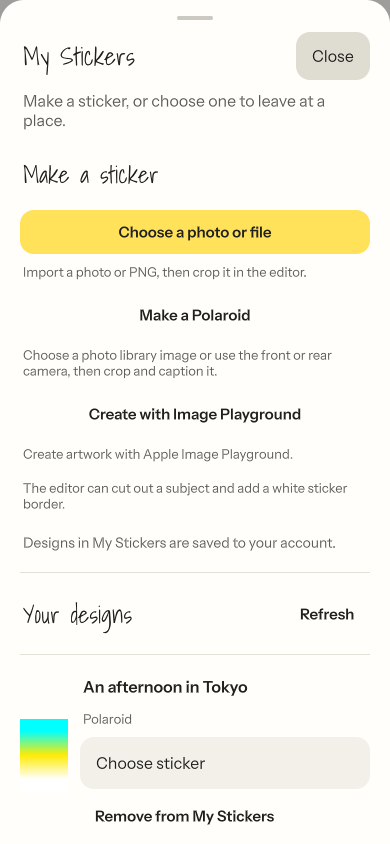
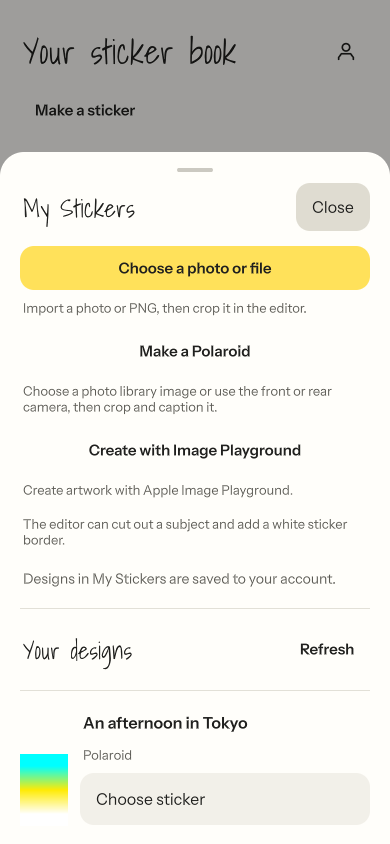
fix: constrain sticker sheet before initial layout

diff --git a/Assets/Tagtag/Application/PlayModeTests/PaperVisualTests.cs b/Assets/Tagtag/Application/PlayModeTests/PaperVisualTests.cs
@@ -671,6 +671,8 @@ namespace Tagtag.Tests
                 " scroll=" + creationSheet.Scroll.worldBound + " screen=" + Screen.width + "x" + Screen.height +
                 " enum=" + typeof(TagtagAppView).GetField("sheet", System.Reflection.BindingFlags.Instance | System.Reflection.BindingFlags.NonPublic).GetValue(host.GetComponent<TagtagAppView>()) +
                 " same=" + ReferenceEquals(creationSheet, typeof(TagtagAppView).GetField("sheetView", System.Reflection.BindingFlags.Instance | System.Reflection.BindingFlags.NonPublic).GetValue(host.GetComponent<TagtagAppView>())));
+            Assert.That(creationSheet.worldBound.yMax, Is.LessThanOrEqualTo(document.rootVisualElement.worldBound.yMax + 1f),
+                "The complete sheet must stay within the viewport so every design is reachable by scrolling.");
             creationSheet.Scroll.scrollOffset = Vector2.zero;
             yield return Capture("my-stickers-sources");
             Assert.That(document.rootVisualElement.Query<Button>().ToList().Any(button => button.text == "Make a Polaroid"), Is.True);

diff --git a/Assets/Tagtag/UI/TagtagAppView.Account.cs b/Assets/Tagtag/UI/TagtagAppView.Account.cs
@@ -345,6 +345,7 @@ namespace Tagtag.UI
             sheetView.style.bottom = SheetBottom();
             ApplySheetHeight();
             overlayHost.Add(sheetView);
+            sheetView.RegisterCallback<GeometryChangedEvent>(_ => ApplySheetHeight());
             VisualElement content = sheetView.Scroll.contentContainer;
             content.style.paddingBottom = 18f;
             reportChoices.Clear();
@@ -711,7 +712,7 @@ namespace Tagtag.UI
         private void ApplySheetHeight()
         {
             if (sheetView == null || root == null) return;
-            if (root.layout.height <= 0f || Screen.height <= 0)
+            if (float.IsNaN(root.layout.height) || float.IsInfinity(root.layout.height) || root.layout.height <= 0f || Screen.height <= 0)
             {
                 sheetView.style.maxHeight = Length.Percent(82f);
                 if (sheet == Sheet.Picker)

diff --git a/docs/plans/2026-09-26-sticker-creation.md b/docs/plans/2026-09-26-sticker-creation.md
@@ -23,7 +23,7 @@ Behavior tests for ownership, immutable retries, image validation/quotas/cleanup
 ## Progress
 
 - Native editor: 86de8c9, 5552aa5, 9d208b1. Objective-C++ syntax/static analyzer and Swift iOS 15 typecheck passed.
-- UI: ca6ffdb, 1d72e50. Captured and corrected long-sheet overflow and selection label layout.
+- UI: ca6ffdb, 1d72e50 plus startup geometry fix. Captured and corrected long-sheet overflow, initial NaN layout dimensions, and selection label layout. The sheet header and bottom bounds are asserted in the mounted graphics test.
 - Backend: e34945a, c159d5d. Coordinator rerun: 38 tests pass, 1 emulator-only skipped. Agent Firebase emulator run: 1/1 pass. Storage emulator cannot prove GCS conditional-write enforcement; production adapter uses generation preconditions.
 - Client integration: custom artwork, account-scoped library/upload drafts (including queued guest claims), URL renewal/cache invalidation, native suspension, AR aspect ratio and map thumbnails implemented.
 - Review fixes: expired uploads restart only on design_expired; restored authorized artwork clears local revocation; replacement drafts save before prior publication retry is cleared; inactive camera creation does not retain resume state; thumbnail fallback does not overwrite full image cache.
